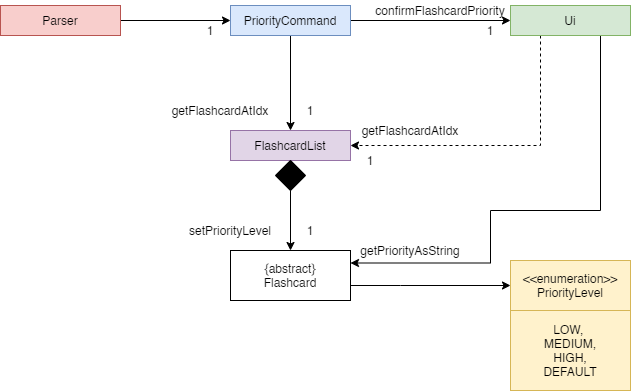
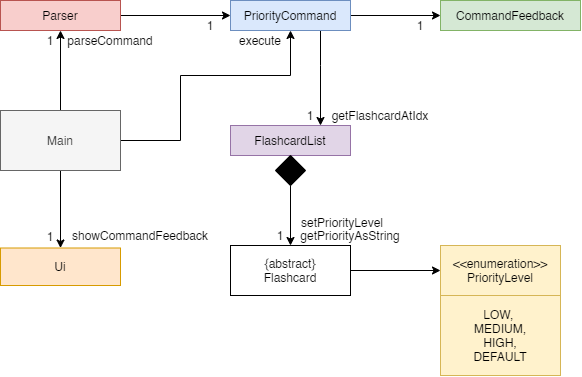
Update sequence diagrams
Updated setPriorityLevel sequence diagram and priority feature class diagram

diff --git a/docs/DeveloperGuide.md b/docs/DeveloperGuide.md
@@ -59,7 +59,7 @@ Given below is the Sequence Diagram for interactions between the `Parser` and `C
 The Set Priority feature allows users to mark a flashcard with a specified priority level. The priority level is
 then reflected when the user requests a list of existing flashcards.
 
-##### Proposed Implementation
+#### Proposed Implementation
 
 `PriorityLevel` is stored as an enum with four fields: LOW, MEDIUM, HIGH and DEFAULT.
 
@@ -87,7 +87,7 @@ The following sequence diagram shows the relevant interactions behind `setPriori
 
 #### Study Plan Feature
 
-##### Proposed Implementation
+#### Proposed Implementation
 
 The Study Plan feature is facilitated by `StudyPlanList`.
 
@@ -119,7 +119,7 @@ The following sequence diagram shows how the `getStudyPlanList` operation works:
 
 #### Random Review Feature
 
-##### Proposed Implementation
+#### Proposed Implementation
 
 The random review mechanism is facilitated by `FlashcardList`.It stores an `List<Flashcard>` internally which contains
 all the flashcards created by the user.
